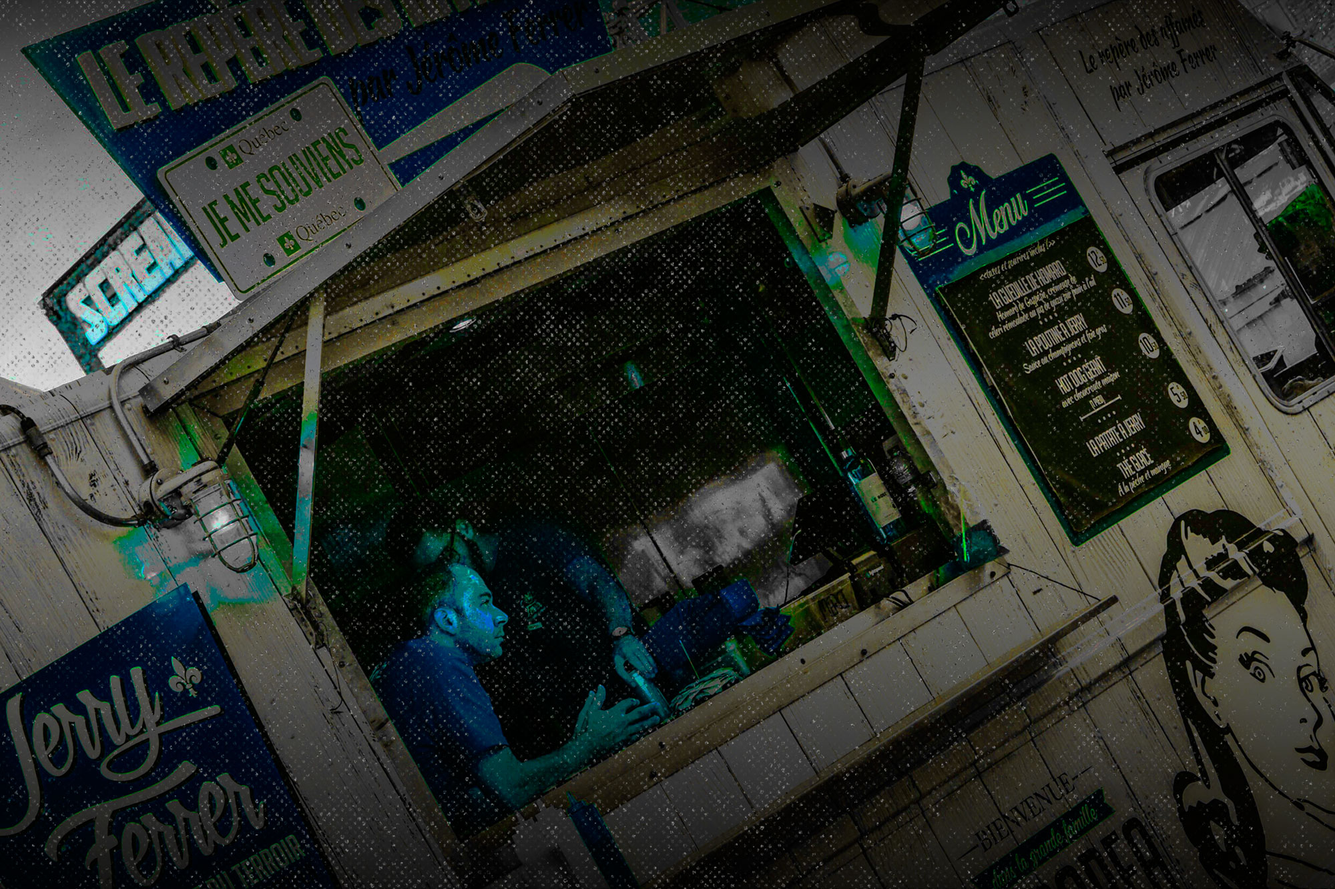
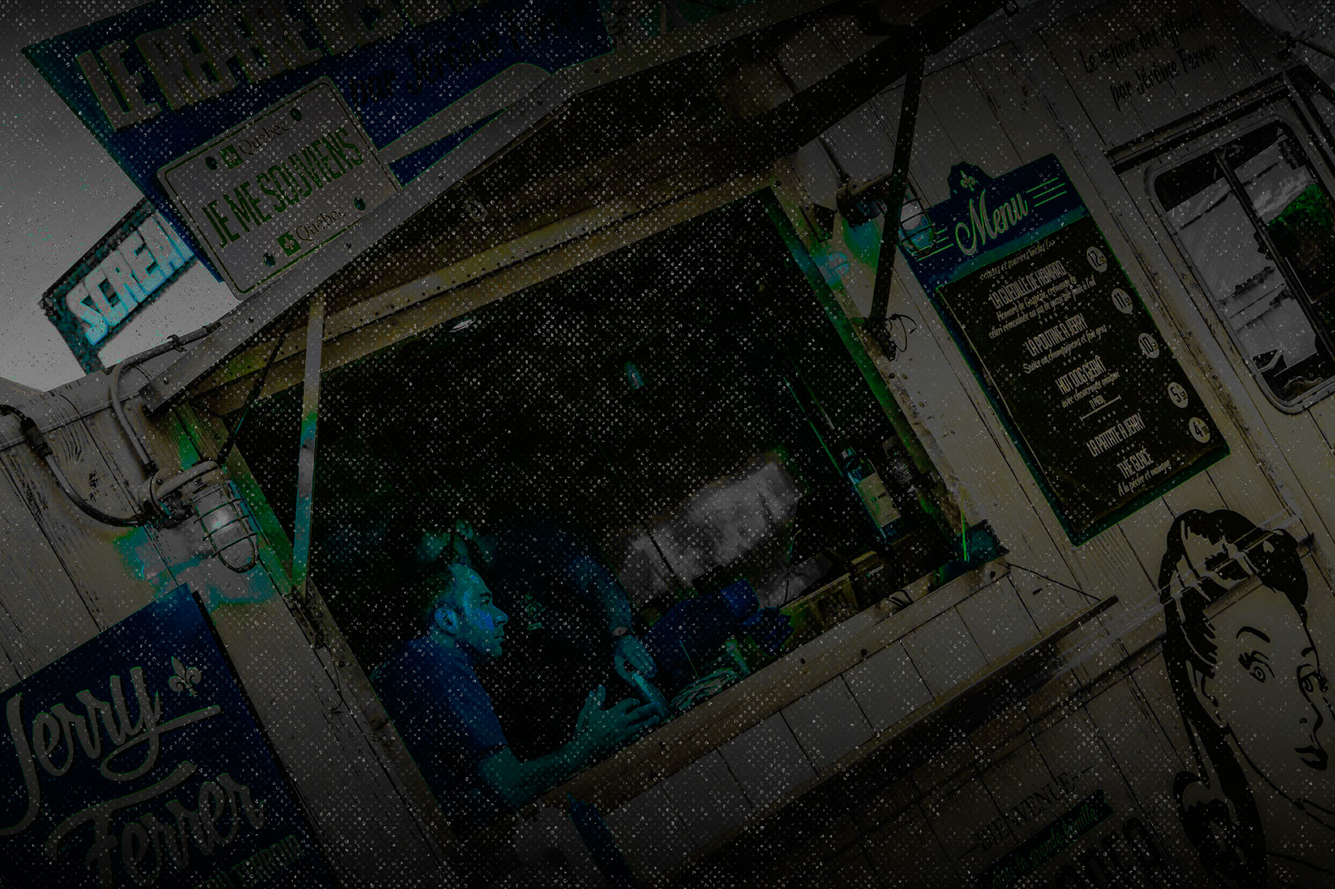
new bg

diff --git a/views/about.html b/views/about.html
@@ -1,0 +1,112 @@
+<!DOCTYPE html>
+
+<html ng-app="foodTruckApp">
+<head>
+    <title>Login</title>
+    <link href=
+    "//maxcdn.bootstrapcdn.com/bootstrap/3.3.6/css/bootstrap.min.css" rel=
+    "stylesheet">
+    <link href="/styles/auth.css" rel="stylesheet">
+    <link href="/styles/style.css" rel="stylesheet">
+    <script src="//ajax.googleapis.com/ajax/libs/angularjs/1.5.6/angular.js"></script>
+    <script src="//cdnjs.cloudflare.com/ajax/libs/jquery/2.2.4/jquery.min.js"></script>
+    <script src=
+    "//maxcdn.bootstrapcdn.com/bootstrap/3.3.6/js/bootstrap.min.js"></script>
+    <script src="https://use.fontawesome.com/be718bed0f.js"></script>
+    <script src="js/main.js" type="text/javascript"></script>
+    <script src="js/app.factory.js" type="text/javascript"></script>
+    <script src="/js/auth.js"></script>
+</head>
+
+<body ng-controller="app.auth.controller as auth">
+    <div id="wrapper">
+        <!-- Navigation -->
+
+        <nav class="navbar navbar-top" role="navigation">
+            <div class="container">
+                <!-- Brand and toggle get grouped for better mobile display -->
+
+                <div class="navbar-header">
+                    <button class="navbar-toggle" data-target=
+                    "#bs-example-navbar-collapse-1" data-toggle="collapse"
+                    type="button"><span class="sr-only">Toggle
+                    navigation</span> <span class="icon-bar"></span>
+                    <span class="icon-bar"></span> <span class=
+                    "icon-bar"></span></button>
+
+                    <div class="navbar-center navbar-brand" href="#">
+                        <a href="/index.html" class="navbar-brand"><img alt="logo" border="0"
+                        height="135" src="styles/imgs/food-truck-logo.svg"
+                        width="225"></a>
+                    </div>
+                </div>
+                <!-- Collect the nav links, forms, and other content for toggling -->
+
+                <div class="navbar-collapse collapse">
+                    <ul class="nav navbar-nav navbar-left">
+                        <li>
+                            <a href="#">Truck List</a>
+                        </li>
+
+                        <li>
+                            <a href="#">Breweries</a>
+                        </li>
+
+                        <li>
+                            <a href="#">Contact</a>
+                        </li>
+                    </ul>
+                    <ul class="nav navbar-nav navbar-right">
+                        <li>
+                            <a href="/login">Truck Owner Login</a>
+                        </li>
+                    </ul>
+                </div>
+                <!-- /.navbar-collapse -->
+            </div>
+            <!-- /.container -->
+        </nav>
+
+        <div class="col-md-6">
+            <div class="right-auth-col">
+                <div class="right-content">
+                    <div class="definition">
+                        <p style="font-style:italic">n. \ [truhk gruhb huhb] \</p>
+                        <ol>
+                            <li> Pairing hungry bellies to your
+                            food.</li>
+
+                            <li> Where the food trucks are.</li>
+
+                            <li> Mapping trucks &amp; stuff.</li>
+                        </ol>
+                    </div>
+                    <!-- <p>Hungry</br>am</br>I</p> -->
+                </div>
+            </div>
+            <!-- first col  -->
+        </div>
+
+        <div class="col-md-6">
+            <div class="right-auth-col">
+                <div class="right-content">
+                    <div class="definition">
+                        <p style="font-style:italic">n. \ [truhk gruhb huhb] \</p>
+                        <ol>
+                            <li> Pairing hungry bellies to your
+                            food.</li>
+
+                            <li> Where the food trucks are.</li>
+
+                            <li> Mapping trucks &amp; stuff.</li>
+                        </ol>
+                    </div>
+                    <!-- <p>Hungry</br>am</br>I</p> -->
+                </div>
+            </div>
+            <!-- first col  -->
+        </div>
+
+
+</body>
+</html>

diff --git a/views/auth.html b/views/auth.html
@@ -35,7 +35,7 @@
                     "icon-bar"></span></button>
 
                     <div class="navbar-center navbar-brand" href="#">
-                        <a href="/index.html" class="navbar-brand"><img alt="logo" border="0"
+                        <a href="/" class="navbar-brand"><img alt="logo" border="0"
                         height="135" src="styles/imgs/food-truck-logo.svg"
                         width="225"></a>
                     </div>
@@ -73,7 +73,7 @@
 
         <div class="container">
             <div class="row logins">
-                <div class="col-md-6">
+                <div class="col-md-12">
                     <section id="tabs">
                         <!-- Nav tabs -->
 
@@ -243,11 +243,9 @@
                 </div>
 
 
-                <div class="col-md-6">
+                <!-- <div class="col-md-6">
                     <div class="right-auth-col">
                         <div class="right-content">
-                            <h2>Definition</h2>
-
                             <div class="definition">
                                 <p style="font-style:italic">n. \ [truhk gruhb huhb] \</p>
                                 <ol>
@@ -259,20 +257,19 @@
                                     <li> Mapping trucks &amp; stuff.</li>
                                 </ol>
                             </div>
-                            <!-- <p>Hungry</br>am</br>I</p> -->
                         </div>
                     </div>
-                    <!-- first col  -->
-                </div>
+
+                </div> -->
                 <!-- row -->
                 <footer>
                     <div class="container-fluid">
                         <div class="col-lg-12">
                             <!-- footer Elements-->
 
-                            <div class="footer-imgs">
+                            <!-- <div class="footer-imgs">
                                 <img class="collage" src=
-                                "styles/imgs/truck-collage.png">
+                                "styles/imgs/truck-collage.png"> -->
                                 <!-- <img src="styles/imgs/truck6.png" class="image-responsive foot1"></img>
                                                 <img src="styles/imgs/truck2.png" class="image-responsive foot2"></img>
                                                 <img src="styles/imgs/truck5.png" class="image-responsive foot3"></img>

diff --git a/public/index.html b/public/index.html
@@ -98,13 +98,7 @@
 
 
         <div class="container">
-            <!-- BG Elements-->
 
-            <!-- <div class="div-box1">
-            </div>
-
-            <div class="div-box2">
-            </div> -->
 
             <div class="col md-8 main-content">
             </div>
@@ -113,7 +107,7 @@
                 <div class="col-md-4 left-nav">
                     <h3>Whatchu Cravin'?</h3>
 
-                    <p style="color:#000">Check truck information for availability.</p>
+                    <p style="color:#fff">Check truck information for availability.</p>
                     <div aria-label="food types" class=
                     "btn-group btn-group-vertical myButtons" id="filters" role=
                     "group">
@@ -192,7 +186,7 @@
                 <div class="col-md-8 mapheader">
                     <h2 class="headline">Tasty Street Eatin'</h2>
 
-                    <p style="color:#000">Bringing your jonesin' belly to food trucks in your
+                    <p style="color:#fff">Bringing your jonesin' belly to food trucks in your
                     area.</p>
 
 										<a class="btn btn-default" href="#menu-toggle" id="menu-toggle"
@@ -221,8 +215,8 @@
 
                 <div class="row text-center">
                     <div class="col-md-3 col-sm-6 hero-feature">
-                        <div class="thumbnail overlay">
-                            <img alt="" src="styles/imgs/cereal-truck.jpg">
+                        <div class="thumbnail">
+                            <img alt="" src="styles/imgs/cereal-truck.jpg" class="overlay">
 
                             <div class="feat-trucks ">
                                 <h4>Cereal Food Truck</h4>
@@ -286,8 +280,8 @@
                         <!-- footer Elements-->
 
                         <div class="footer-imgs">
-                            <img class="collage" src=
-                            "styles/imgs/truck-collage.png">
+                            <!-- <img class="collage" src=
+                            "styles/imgs/truck-collage.png"> -->
                             <!-- <img src="styles/imgs/truck6.png" class="image-responsive foot1"></img>
                                             <img src="styles/imgs/truck2.png" class="image-responsive foot2"></img>
                                             <img src="styles/imgs/truck5.png" class="image-responsive foot3"></img>

diff --git a/public/styles/style.css b/public/styles/style.css
@@ -16,7 +16,7 @@
 
 body {
     margin: auto;
-    background-image: url('imgs/bg-truck.jpg');
+    background-image: url('imgs/street-truck.jpg');
     background-position:center;
     background-size: cover;
     background-repeat: no-repeat;
@@ -133,6 +133,12 @@ h1, h2, h3{
 
 /*NAVAGATION BAR*/
 
+nav{
+  height: 95px;
+  background-color: #000;
+
+}
+
 .navbar-nav{
   padding-top: 10px;
 }
@@ -176,9 +182,9 @@ h1, h2, h3{
 .navbar .navbar-collapse a{
   color: #fff;
 }
-.navbar .navbar-collapse a:hover{
+.navbar .navbar-collapse li a:hover{
   color: #000
-  /*background-color: transparent;*/
+  background: transparent;
 }
 
 #menu-toggle{
@@ -300,27 +306,17 @@ h1, h2, h3{
 
 /* BOTTOM CONTENT */
 
-/*.overlay{
-  overflow: hidden;
+.overlay:before{
+  position: absolute;
+  content:" ";
+  top:0;
+  left:0;
+  width:100%;
+  height:100%;
+  display: block;
+  z-index:0;
+  background-color: rgba(0,0,0,0.5);
 }
-
-.overlay img{
-  transition: all 1s ease;
-  -moz-transition: all 1s ease;
-  -ms-transition: all 1s ease;
-  -webkit-transition: all 1s ease;
-  -o-transition: all 1s ease;
-}
-
-.overlay img:hover{
-  transform: scale(1.5);
-  -moz-transform: scale(1.5);
-  -webkit-transform: scale(1.5);
-  -o-transform: scale(1.5);
-  -ms-transform: scale(1.5);
-  -ms-filter: "progid:DXImageTransform.Microsoft.Matrix(M11=1.5, M12=0, M21=0, M22=1.5, SizingMethod='auto expand')";
-   filter: progid:DXImageTransform.Microsoft.Matrix(M11=1.5, M12=0, M21=0, M22=1.5, SizingMethod='auto expand');
-}*/
 
 footer {
     margin: 50px 0;

diff --git a/server.js b/server.js
@@ -39,6 +39,7 @@ mongoose.connect('mongodb://localhost/Trucks', (mongooseErr) => {
     }
 });
 
+
 Routes(app);
 
 app.listen(port, (error)=>{
@@ -49,6 +50,13 @@ app.listen(port, (error)=>{
         console.log("Our trucks are revin' to go!" .yellow, port);
     }
 });
+// app.use(function(err, req, res, next){
+//   console.error(err.stack)
+//   res.status(404).send({
+//     status: 404,
+//     message: 'Page Not Found!'
+//   })
+// });
 
 if ( process.env.NODE_ENV !== "development" ){
    HTTPS.createServer({

diff --git a/views/dashboard.html b/views/dashboard.html
@@ -33,7 +33,7 @@
               "icon-bar"></span></button>
 
               <div class="navbar-center navbar-brand" href="#">
-                  <a href="/index.html" class="navbar-brand"><img alt="logo" border="0"
+                  <a href="/" class="navbar-brand"><img alt="logo" border="0"
                   height="135" src="styles/imgs/food-truck-logo.svg"
                   width="225"></a>
               </div>
